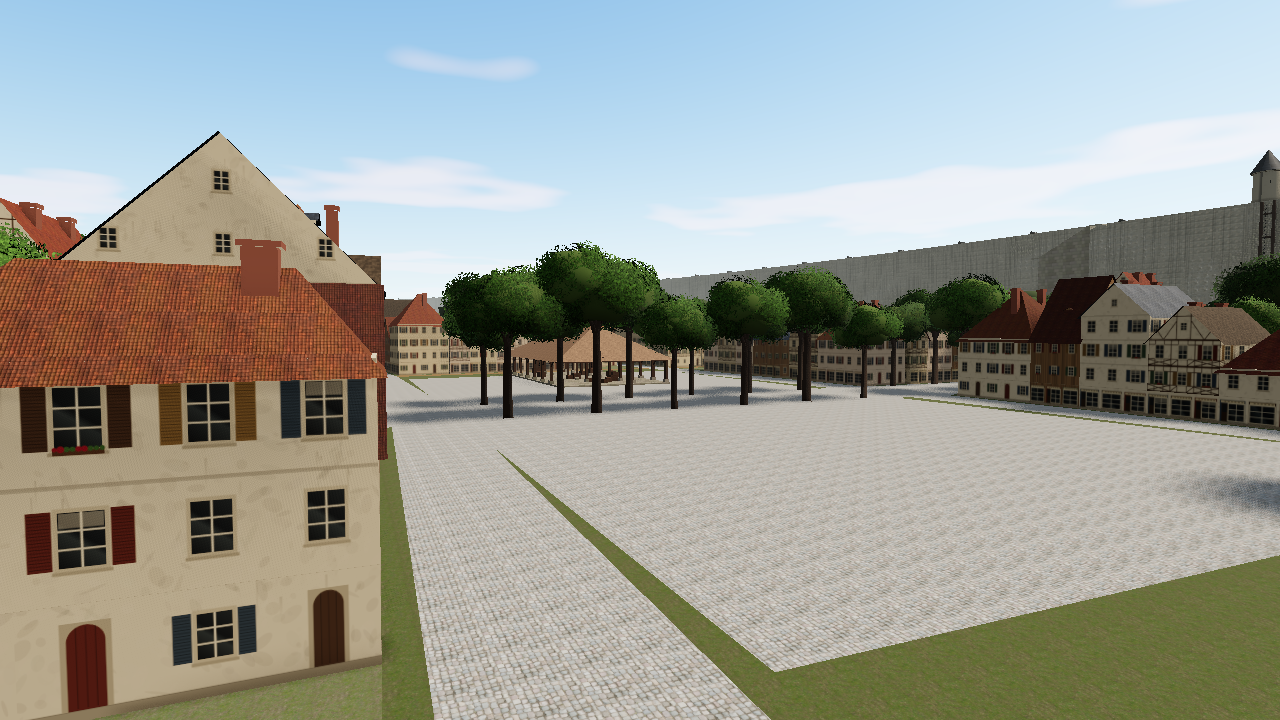
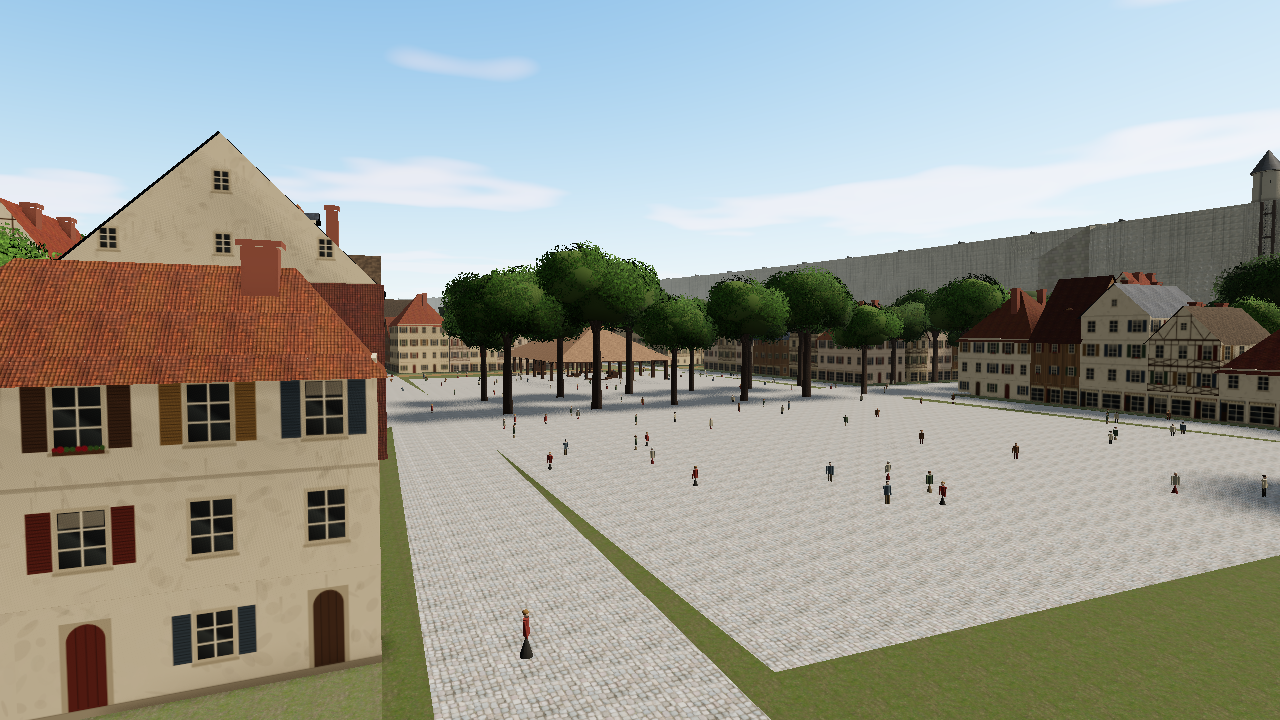
Dette n° 6 : habitants dans les lieux (rues, places, marché)
Figures civiles instanciées (six tenues), debout le long des rues selon leur rang et
sur les places (plus nombreuses au marché), en nombre proportionnel à la part
présente de l'état affiché ; aucune dans une ville évacuée ; cachées aux vues
d'ensemble. Module places/inhabitants.ts et tests ; vues de Shiganshina recapturées.

npm run verify : 125 fichiers, 789 tests, EXIT=0.

Claude-Session: https://claude.ai/code/session_01QkVHPRrYAvmotTxhToJVAL

diff --git a/src/render/tactical3d/places/inhabitants.ts b/src/render/tactical3d/places/inhabitants.ts
@@ -1,0 +1,124 @@
+import { Color, ConeGeometry, CylinderGeometry, Group, InstancedMesh, Matrix4, MeshStandardMaterial, Quaternion, SphereGeometry, Vector3 } from "three";
+import type { Place } from "../../../data/placeSchema";
+import { FaceBuilder } from "../townMesh";
+import { derive, range, seeded } from "../rng";
+import { along, bbox, inside, polylineLength, signedArea } from "./geom";
+
+/**
+ * Dette n° 6 : habitants des lieux (champ `habitants` de l'état : part de la population de 845 présente). Figures civiles
+ * instanciées, debout, le long des rues (selon leur rang) et sur les places (plus nombreuses au marché), en nombre
+ * proportionnel à la part présente ; aucune dans une ville évacuée. Densités, tenues et teintes : choix de rendu (A).
+ */
+
+/** Mètres de rue par habitant visible, selon le type de voie (1 / densité linéaire). */
+const STREET_SPACING: Record<string, number> = { principale: 4, rue: 9, quai: 7, ruelle: 20, chemin: 45, route: 45 };
+/** Mètres carrés de place par habitant visible (marché, place ordinaire). */
+const SQUARE_AREA = { marche: 22, place: 70 };
+/** Plafond de figures par lieu (rendu). */
+export const MAX_INHABITANTS = 2500;
+/** Variantes de tenues (hommes : 0 à 2 ; femmes : 3 à 5). */
+export const INHABITANT_VARIANTS = 6;
+
+export interface InhabitantSpot {
+  x: number;
+  y: number;
+  yaw: number;
+  variant: number;
+}
+
+/** Places des habitants (plan du lieu, m) pour une part présente `share` (0 : aucun) ; déterministe pour une graine. */
+export function inhabitantSpots(place: Pick<Place, "rues" | "places_publiques">, share: number, seed: number): InhabitantSpot[] {
+  if (share <= 0) return [];
+  const r = seeded(derive(seed, 6060));
+  const out: InhabitantSpot[] = [];
+  const push = (x: number, y: number): void => {
+    out.push({ x, y, yaw: range(r, -Math.PI, Math.PI), variant: Math.floor(r() * INHABITANT_VARIANTS) });
+  };
+  for (const st of place.rues) {
+    const len = polylineLength(st.trace);
+    const n = Math.round((len / (STREET_SPACING[st.type] ?? 20)) * share);
+    // Sur la chaussée, à au moins 0,8 m des façades.
+    const half = Math.max(0, st.largeur_m / 2 - 0.8);
+    for (let i = 0; i < n; i++) {
+      const { p, d } = along(st.trace, r() * len);
+      const off = range(r, -half, half);
+      push(p[0] - d[1] * off, p[1] + d[0] * off);
+    }
+  }
+  for (const sq of place.places_publiques) {
+    const area = Math.abs(signedArea(sq.polygone));
+    const n = Math.round((area / (sq.marche ? SQUARE_AREA.marche : SQUARE_AREA.place)) * share);
+    const b = bbox(sq.polygone);
+    for (let i = 0, tries = 0; i < n && tries < n * 20; tries++) {
+      const p: [number, number] = [range(r, b.minX, b.maxX), range(r, b.minY, b.maxY)];
+      if (!inside(sq.polygone, p)) continue;
+      push(p[0], p[1]);
+      i++;
+    }
+  }
+  // Au-delà du plafond, un tirage régulier garde la répartition entre rues et places.
+  if (out.length <= MAX_INHABITANTS) return out;
+  const step = out.length / MAX_INHABITANTS;
+  return Array.from({ length: MAX_INHABITANTS }, (_, i) => out[Math.floor(i * step)] as InhabitantSpot);
+}
+
+/** Tenues civiles (A) : chemise ou corsage, pantalon ou jupe longue, coiffe ou cheveux. */
+const SHIRTS = ["#B9AC90", "#7C5A3E", "#5E6A70", "#8C3F33", "#A8A08A", "#56634C"];
+const LOWER = ["#4A3F33", "#3B3A36", "#5A4A38", "#6E2F2A", "#45506A", "#7A6A50"];
+const SKIN = ["#D9B49A", "#C99A7C", "#E3C2A8"];
+const HAIR = ["#3B2C20", "#6A4A2E", "#2A2420", "#8A6A3E"];
+
+function civilian(variant: number): FaceBuilder {
+  const fb = new FaceBuilder();
+  const woman = variant >= 3;
+  const c = (h: string): Color => new Color(h);
+  const at = (x: number, y: number, z: number, s: [number, number, number] = [1, 1, 1], rx = 0): Matrix4 =>
+    new Matrix4().compose(new Vector3(x, y, z), new Quaternion().setFromAxisAngle(new Vector3(1, 0, 0), rx), new Vector3(...s));
+  const shirt = c(SHIRTS[variant % SHIRTS.length] as string);
+  const lower = c(LOWER[(variant * 2 + 1) % LOWER.length] as string);
+  const skin = c(SKIN[variant % SKIN.length] as string);
+  const hair = c(HAIR[variant % HAIR.length] as string);
+  const leg = 0.82;
+  if (woman) fb.geometry(new ConeGeometry(0.27, leg + 0.02, 10, 1, true), at(0, (leg + 0.02) / 2, 0), lower);
+  else for (const s of [1, -1]) fb.geometry(new CylinderGeometry(0.065, 0.052, leg, 6), at(s * 0.085, leg / 2, 0), lower);
+  fb.geometry(new CylinderGeometry(woman ? 0.13 : 0.15, woman ? 0.12 : 0.13, 0.52, 8), at(0, leg + 0.26, 0, [1, 1, 0.72]), shirt);
+  for (const s of [1, -1]) fb.geometry(new CylinderGeometry(0.045, 0.036, 0.54, 6), at(s * (woman ? 0.17 : 0.19), leg + 0.25, 0.02, [1, 1, 1], -0.15), shirt);
+  const sphere = new SphereGeometry(1, 7, 5);
+  fb.geometry(sphere, at(0, leg + 0.66, 0.01, [0.09, 0.115, 0.1]), skin);
+  // Coiffe ou fichu (femmes), cheveux ou chapeau (hommes).
+  if (woman) fb.geometry(sphere, at(0, leg + 0.71, -0.01, [0.1, 0.09, 0.11]), variant === 4 ? c("#E8E2D2") : hair);
+  else fb.geometry(sphere, at(0, leg + 0.72, -0.01, [0.095, 0.07, 0.105]), hair);
+  return fb;
+}
+
+/** Couche des habitants : une foule instanciée par variante de tenue (couleurs de sommet). */
+export function buildInhabitants(spots: readonly InhabitantSpot[]): { group: Group; count: number; dispose(): void } {
+  const group = new Group();
+  group.name = "habitants";
+  const mat = new MeshStandardMaterial({ vertexColors: true, roughness: 0.9 });
+  const meshes: InstancedMesh[] = [];
+  const m = new Matrix4();
+  const q = new Quaternion();
+  const up = new Vector3(0, 1, 0);
+  const one = new Vector3(1, 1, 1);
+  for (let v = 0; v < INHABITANT_VARIANTS; v++) {
+    const list = spots.filter((s) => s.variant === v);
+    if (list.length === 0) continue;
+    const mesh = new InstancedMesh(civilian(v).build(), mat, list.length);
+    mesh.name = `habitants-${v}`;
+    mesh.castShadow = true;
+    list.forEach((s, i) => mesh.setMatrixAt(i, m.compose(new Vector3(s.x, 0, s.y), q.setFromAxisAngle(up, s.yaw), one)));
+    mesh.instanceMatrix.needsUpdate = true;
+    mesh.computeBoundingSphere();
+    group.add(mesh);
+    meshes.push(mesh);
+  }
+  return {
+    group,
+    count: spots.length,
+    dispose() {
+      for (const x of meshes) x.geometry.dispose();
+      mat.dispose();
+    },
+  };
+}

diff --git a/tests/places/habitants.test.ts b/tests/places/habitants.test.ts
@@ -1,0 +1,37 @@
+import { readFileSync } from "node:fs";
+import { describe, expect, it } from "vitest";
+import type { Place } from "../../src/data/placeSchema";
+import { inhabitantSpots, MAX_INHABITANTS } from "../../src/render/tactical3d/places/inhabitants";
+import { inside, polylineDist } from "../../src/render/tactical3d/places/geom";
+
+/** Dette n° 6 : habitants des lieux, selon la part présente de l'état (rues et places ; aucun dans une ville évacuée). */
+describe("habitants des lieux (dette n° 6)", () => {
+  const ids = ["shiganshina", "maria-district-2", "maria-district-3", "maria-district-4"];
+  const places = ids.map((id) => JSON.parse(readFileSync(`data/places/${id}.json`, "utf8")) as Place);
+  it("aucun habitant pour une part nulle ; sinon, tous sur une chaussée ou une place, au plus 2 500", () => {
+    for (const p of places) {
+      expect(inhabitantSpots(p, 0, 7), p.id).toEqual([]);
+      const spots = inhabitantSpots(p, 1, 7);
+      expect(spots.length, p.id).toBeGreaterThan(300);
+      expect(spots.length, p.id).toBeLessThanOrEqual(MAX_INHABITANTS);
+      for (const s of spots) {
+        const onStreet = p.rues.some((r) => polylineDist([s.x, s.y], r.trace) <= r.largeur_m / 2 + 1e-6);
+        const onSquare = p.places_publiques.some((q) => inside(q.polygone, [s.x, s.y]));
+        expect(onStreet || onSquare, `${p.id} (${s.x.toFixed(1)}, ${s.y.toFixed(1)})`).toBe(true);
+      }
+      // Même graine, mêmes places (rendu déterministe).
+      expect(inhabitantSpots(p, 1, 7)).toEqual(spots);
+    }
+  });
+  it("le nombre suit la part présente ; les états évacués de Shiganshina sont vides", () => {
+    const shig = places[0] as Place;
+    const full = inhabitantSpots({ ...shig, rues: shig.rues.slice(0, 20), places_publiques: shig.places_publiques.slice(0, 2) }, 1, 3).length;
+    const half = inhabitantSpots({ ...shig, rues: shig.rues.slice(0, 20), places_publiques: shig.places_publiques.slice(0, 2) }, 0.5, 3).length;
+    expect(half / full).toBeGreaterThan(0.4);
+    expect(half / full).toBeLessThan(0.6);
+    const byState = Object.fromEntries(shig.etats.map((e) => [e.id, inhabitantSpots(shig, e.habitants, 7).length]));
+    console.log(`habitants de Shiganshina par état : ${JSON.stringify(byState)}`);
+    for (const e of shig.etats) if (e.habitants === 0) expect(byState[e.id], e.id).toBe(0);
+    expect(Math.max(...Object.values(byState))).toBeGreaterThan(0);
+  });
+});

diff --git a/src/render/tactical3d/places/loadPlace.ts b/src/render/tactical3d/places/loadPlace.ts
@@ -19,6 +19,7 @@ import { boxGeometry, chimneyGeometry, dormerGeometry, dormerRoofGeometry, gable
 import { buildWallGeometry } from "./wall3d";
 import type { ExtrasResult } from "./extras";
 import { frozenLayout, frozenPlace } from "./frozen";
+import { buildInhabitants, inhabitantSpots } from "./inhabitants";
 
 /**
  * Chargeur unique des lieux N1 (R1e, consigne §2.3) : `loadPlace(id)` lit le plan validé (`/places3d/<id>.json`, servi hors du
@@ -56,6 +57,9 @@ export interface PlaceScene {
   chunkStats(): { total: number; visible: number; near: number };
   dispose(): void;
 }
+
+/** Altitude de caméra (m) au-dessus de laquelle les habitants ne sont plus dessinés (vues d'ensemble : figures invisibles). */
+const PEOPLE_MAX_ALT_M = 250;
 
 export const viewOf = (v: PlaceView): SceneView => ({ eye: [v.oeil[0], v.oeil[2], v.oeil[1]], target: [v.cible[0], v.cible[2], v.cible[1]], fov: v.fov });
 
@@ -197,6 +201,10 @@ export function buildPlaceScene(place: Place, walls: WallsParams, opts: BuildOpt
   // Statique : sol, eau, murailles.
   const ground: GroundMeshes = buildGround(place, layout, opts.seed, opts.frozen?.champs.map((c) => ({ polygone: c.polygone.map(([x, y]) => [x / 10, y / 10] as [number, number]), culture: c.culture })) ?? []);
   group.add(ground.group);
+  // Dette n° 6 : habitants de l'état affiché (part de la population de 845), montrés aux vues basses seulement.
+  const shown = place.etats.find((x) => x.id === (opts.state ?? place.etat_defaut));
+  const people = buildInhabitants(opts.frozen ? [] : inhabitantSpots(place, shown?.habitants ?? 0, opts.seed));
+  group.add(people.group);
   const textures: Texture[] = [leaves];
   let wallMesh: Mesh | null = null;
   if (ring) {
@@ -244,6 +252,7 @@ export function buildPlaceScene(place: Place, walls: WallsParams, opts: BuildOpt
     last.copy(pv);
     frustum.setFromProjectionMatrix(pv);
     const eye = camera.position;
+    people.group.visible = eye.y < PEOPLE_MAX_ALT_M;
     for (const [ck, box] of chunkBoxes) {
       if (!frustum.intersectsBox(box)) {
         states.set(ck, 0);
@@ -294,6 +303,7 @@ export function buildPlaceScene(place: Place, walls: WallsParams, opts: BuildOpt
       extras?.dispose();
       layer.dispose();
       ground.dispose();
+      people.dispose();
       wallMesh?.geometry.dispose();
       mats.dispose();
       for (const m of extraMats) m.dispose();

diff --git a/docs/reports/dette.md b/docs/reports/dette.md
@@ -9,7 +9,7 @@ Format : **quoi** — où — gravité (faible / moyenne / forte). Tag `LC-repor
 | 3 | Villes générées de R1b (E02, E05) : tissu toujours en damier malgré les placettes et cours plantées ; les lieux N1 les remplaceront | `src/render/tactical3d/envTown.ts` | moyenne | R1e.2 |
 | 4 | Vues d'ensemble des grands lieux : ~0,9 M triangles dessinés pour un budget visé de 250 000 (imposteurs de quartiers à prévoir) | `places/loadPlace.ts` | moyenne | R1e.4 |
 | 5 | Ciel physique : triangle bleu à arête droite dans certaines vues hautes (banc, vue d'ensemble), en qualité moyenne de jour ; ni les nuages ni le plan lointain ; lié au post-traitement | `lighting.ts`, `post.ts` | faible | R1e.3 |
-| 6 | Habitants (`habitants` des états) non rendus dans les lieux | `places/` | faible | R1e.4 |
+| 6 | Habitants (`habitants` des états) non rendus dans les lieux | `places/` | faible | R1e.4 ; **corrigé** (2026-10-11 : figures civiles instanciées le long des rues et sur les places, plus nombreuses au marché, en nombre proportionnel à la part présente, au plus 2 500 ; aucune en 850 ; visibles sous 250 m d'altitude de caméra ; `places/inhabitants.ts`) |
 | 7 | Cache LRU des lieux pas encore branché sur un monde à plusieurs lieux (R2) | `places/placeCache.ts` | faible | R1e.6 |
 | 8 | Parement (CR1e-05) : autocorrélation 0,501 (pic isolé à 20 m, cause non établie) au lieu de < 0,35 ; accepté par l'utilisateur « pour le moment » (D-103) | `src/render/tactical3d/parement.ts`, `tests/places/murs.test.ts` | faible | R1e.3 |
 | 9 | États de Shiganshina (CR1e-07) : 845-avant / 850-reprise ΔE 3,4 < 6 après un correctif (essai 1 : 845-brèche / 850-reprise 5,9). Cause mesurée : dans la vue d'ensemble à 2,7 km, la friche, les ruines et les portes bouchées de 850 sont sous le pixel ; seul le ciel diffère. Piste : comparer les états sur une vue plus proche (porte extérieure, Grand-Rue) ou une friche plus marquée. Règle du fichier 24 §4 appliquée (noté, pas d'arrêt) | `places/placeViewer.ts`, `tools/places-captures.ts` | moyenne | R1e.4 |

diff --git a/docs/reports/dettes-suite.md b/docs/reports/dettes-suite.md
@@ -151,3 +151,18 @@ Les corrections de la 3D (n° 74, 75, 55) sont décrites dans `CONFORMITE-3D.md`
 - **`r2-suivi-1366.png`** : l'escouade 02 en cape verte sur une place pavée, un soldat de la foule au loin à gauche.
   - Défauts : le balancement ne se voit pas sur une capture fixe (contrôlé par les tests et l'absence d'erreur de
     shader) ; ombres de la foule figées (matériau d'ombre non modifié) ; numéros d'escouade estompés serrés au fond.
+
+## Dette n° 6 : habitants des lieux
+- Figures civiles instanciées (six tenues : chemise ou corsage, pantalon ou jupe longue, fichu ou cheveux ; A), debout le
+  long des rues (une tous les 4 m sur une voie principale, 9 m dans une rue, 20 m dans une ruelle) et sur les places (une
+  pour 22 m² au marché, 70 m² ailleurs), multipliées par la part présente de l'état ; au plus 2 500 ; aucune dans
+  Shiganshina en 850 ; cachées au-dessus de 250 m d'altitude de caméra (vues d'ensemble).
+- `npm run verify` (`dette6-verify.log`) : « Test Files  125 passed (125) », « Tests  789 passed (789) », `EXIT=0` ;
+  `tests/places/habitants.test.ts` : « habitants de Shiganshina par état : {"845-avant":2500,"845-breche":2500,
+  "850-reprise":0} ». `places:captures` (`dette6-captures.log`) : `EXIT=0`, vue de la grand-rue 2 168 k triangles
+  (1 723 k sans les habitants).
+- **`docs/places/shiganshina/vue-marche.png`** : la grande place pavée du marché, sa halle et ses arbres, des dizaines de
+  passants dispersés ; le mur Maria au fond. **`vue-grand-rue.png`** : rue pavée bordée d'arbres et de maisons à
+  colombages, cinq à six passants dont une femme en jupe rouge.
+  - Défauts : place encore sans étals (dette n° 12) ; passants immobiles, sans ombre portée visible de loin ; répartition
+    uniforme (aucun attroupement) ; +445 k triangles dans les vues de rue.

diff --git a/docs/PROGRESS.md b/docs/PROGRESS.md
@@ -4,7 +4,7 @@
 |---|---|
 | Phase | **PACK terminée** (application Windows Electron : `npm run package:win`, `smoke:pack` ; D-164). Feuille de route V2 achevée (N1 à N3). Suite : dette n° 72 (tenues des soldats, demande de l'utilisateur) et contrôle de conformité de la 3D, puis dettes. |
 | Tâche | Dettes n° 74, 75, 55 (décor), 56, 57, 58, 11, 38, 13, 14, 62, 65 corrigées ; 31 et 45 en partie (D-166 à D-171) ; dettes suivantes |
-| Dernier `npm run verify` | 2026-10-11 : code 0 ; 124 fichiers, 787 tests (`docs/reports/dette61-verify.log`) |
+| Dernier `npm run verify` | 2026-10-11 : code 0 ; 125 fichiers, 789 tests (`docs/reports/dette6-verify.log`) |
 | Prochaine étape | PROCHAINE ACTION EXACTE : dettes restantes par gravité (hors `src/sim`, figé depuis R2), puis résumé final des 3 jours le 2026-10-12 vers 19:35 UTC, sur `claude/intelligent-feynman-8ekib4` (mandat autonome jusqu'au 2026-10-12 19:33 UTC, D-148). À faire par Gabriel : `npm run package:win` sur Windows (`docs/LANCER_SUR_WINDOWS.md`) ; mesures GPU (dettes n° 49, 64, 71, 73) |
 
 ## Mandat autonome de trois jours (2026-10-09 → 2026-10-12, D-148)
